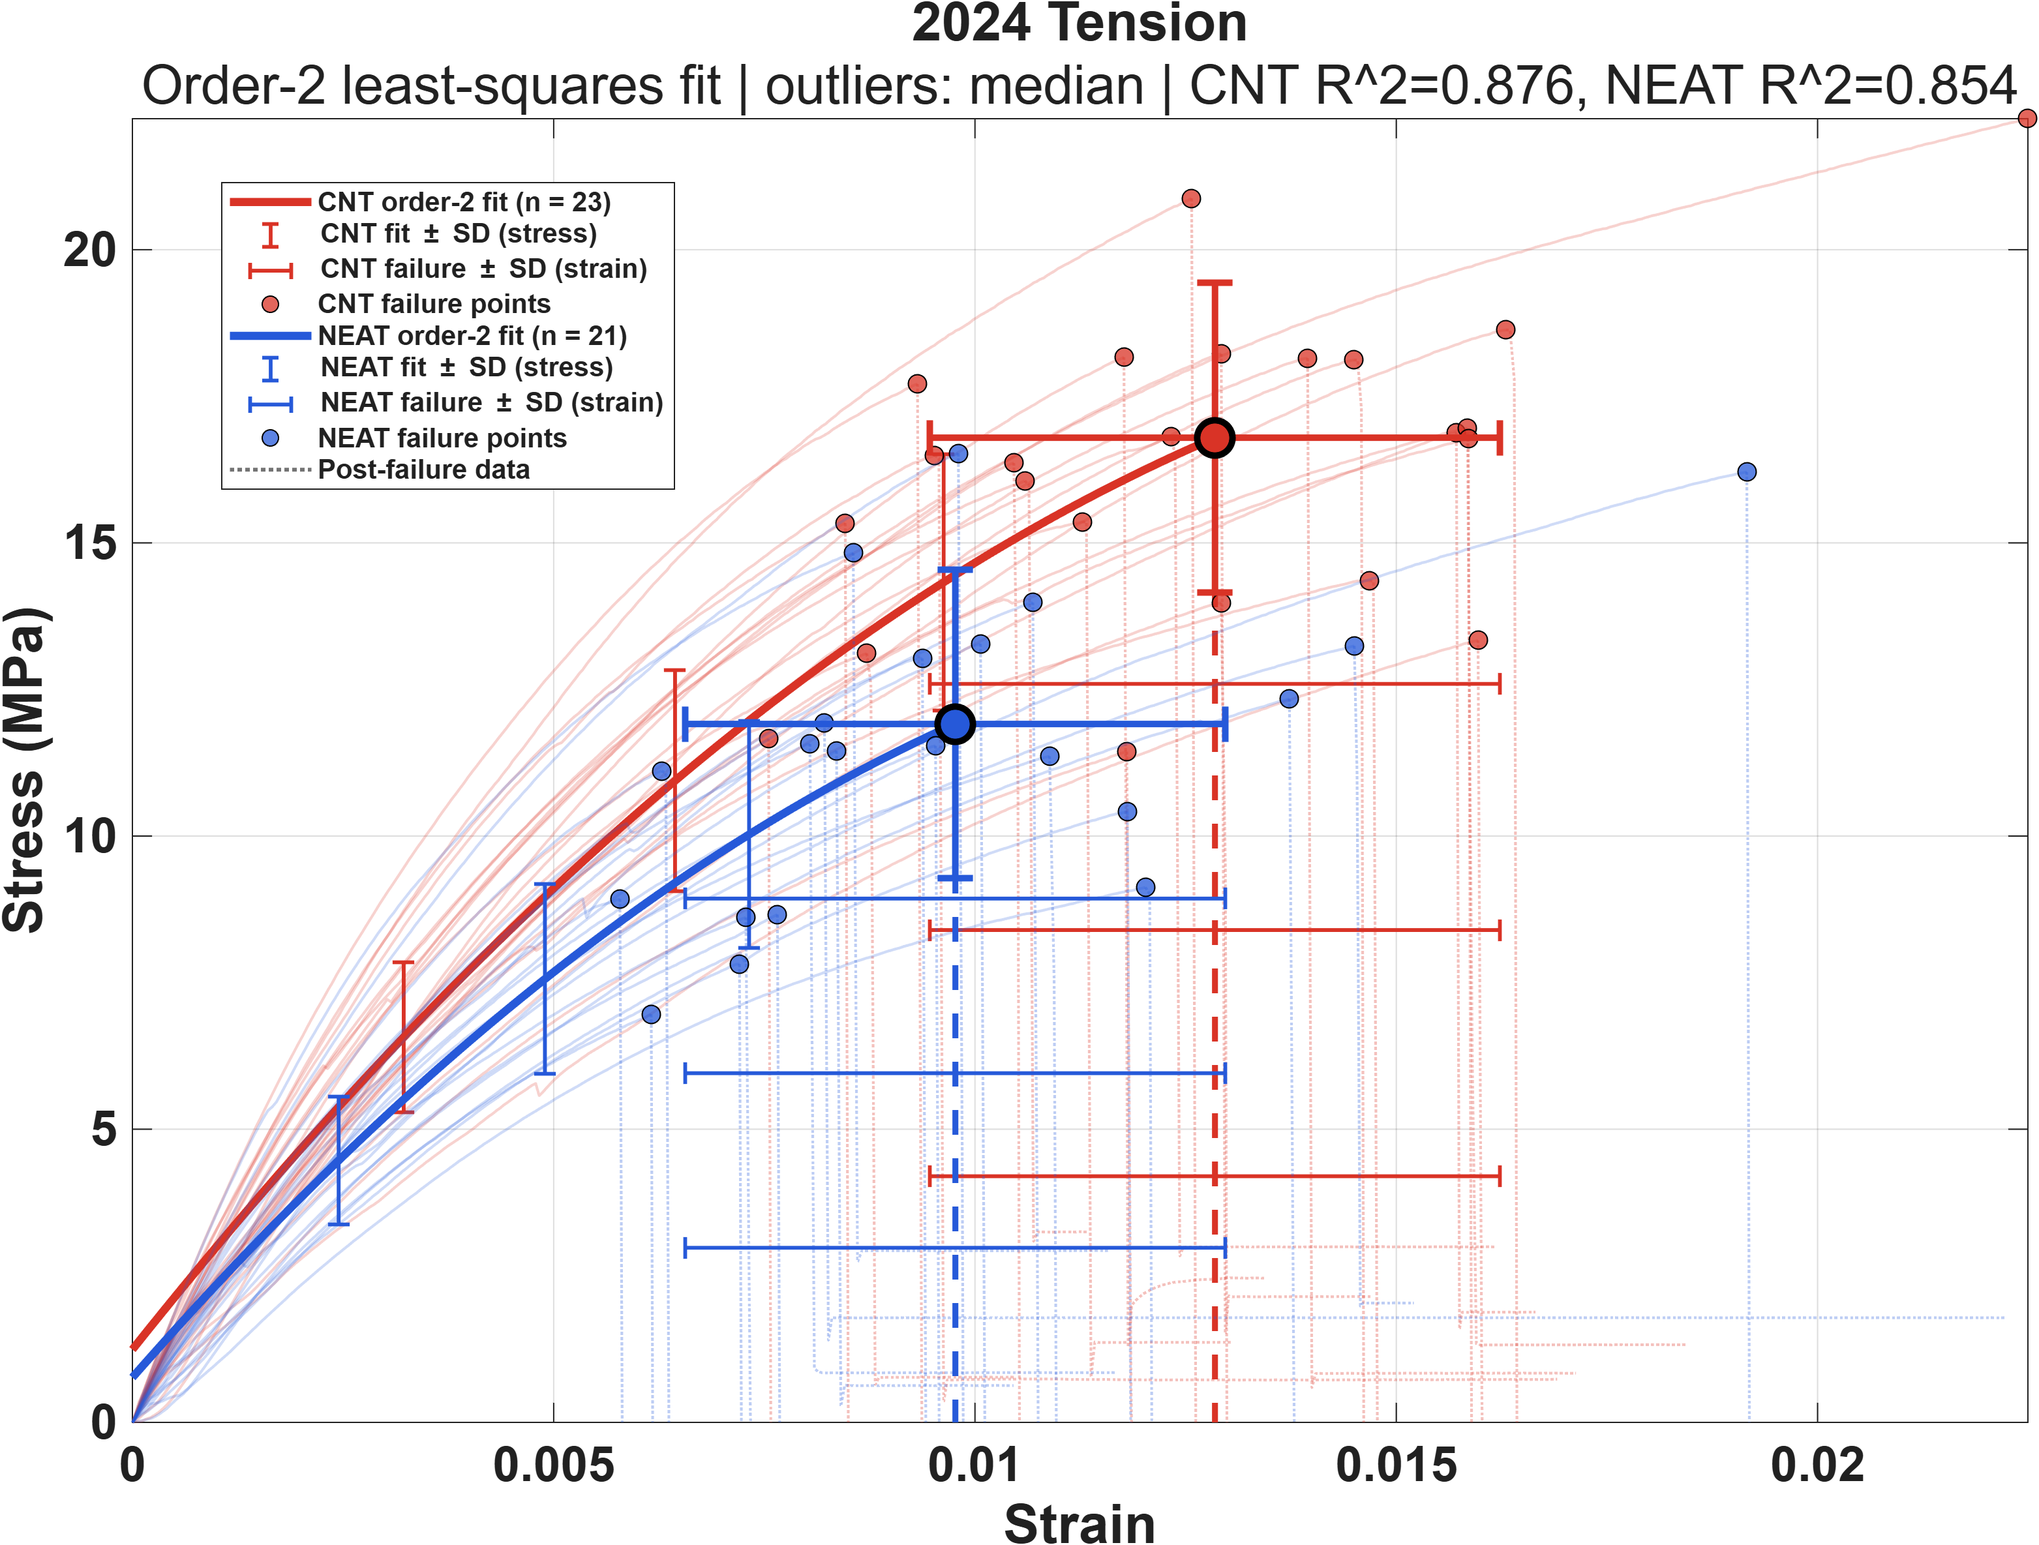
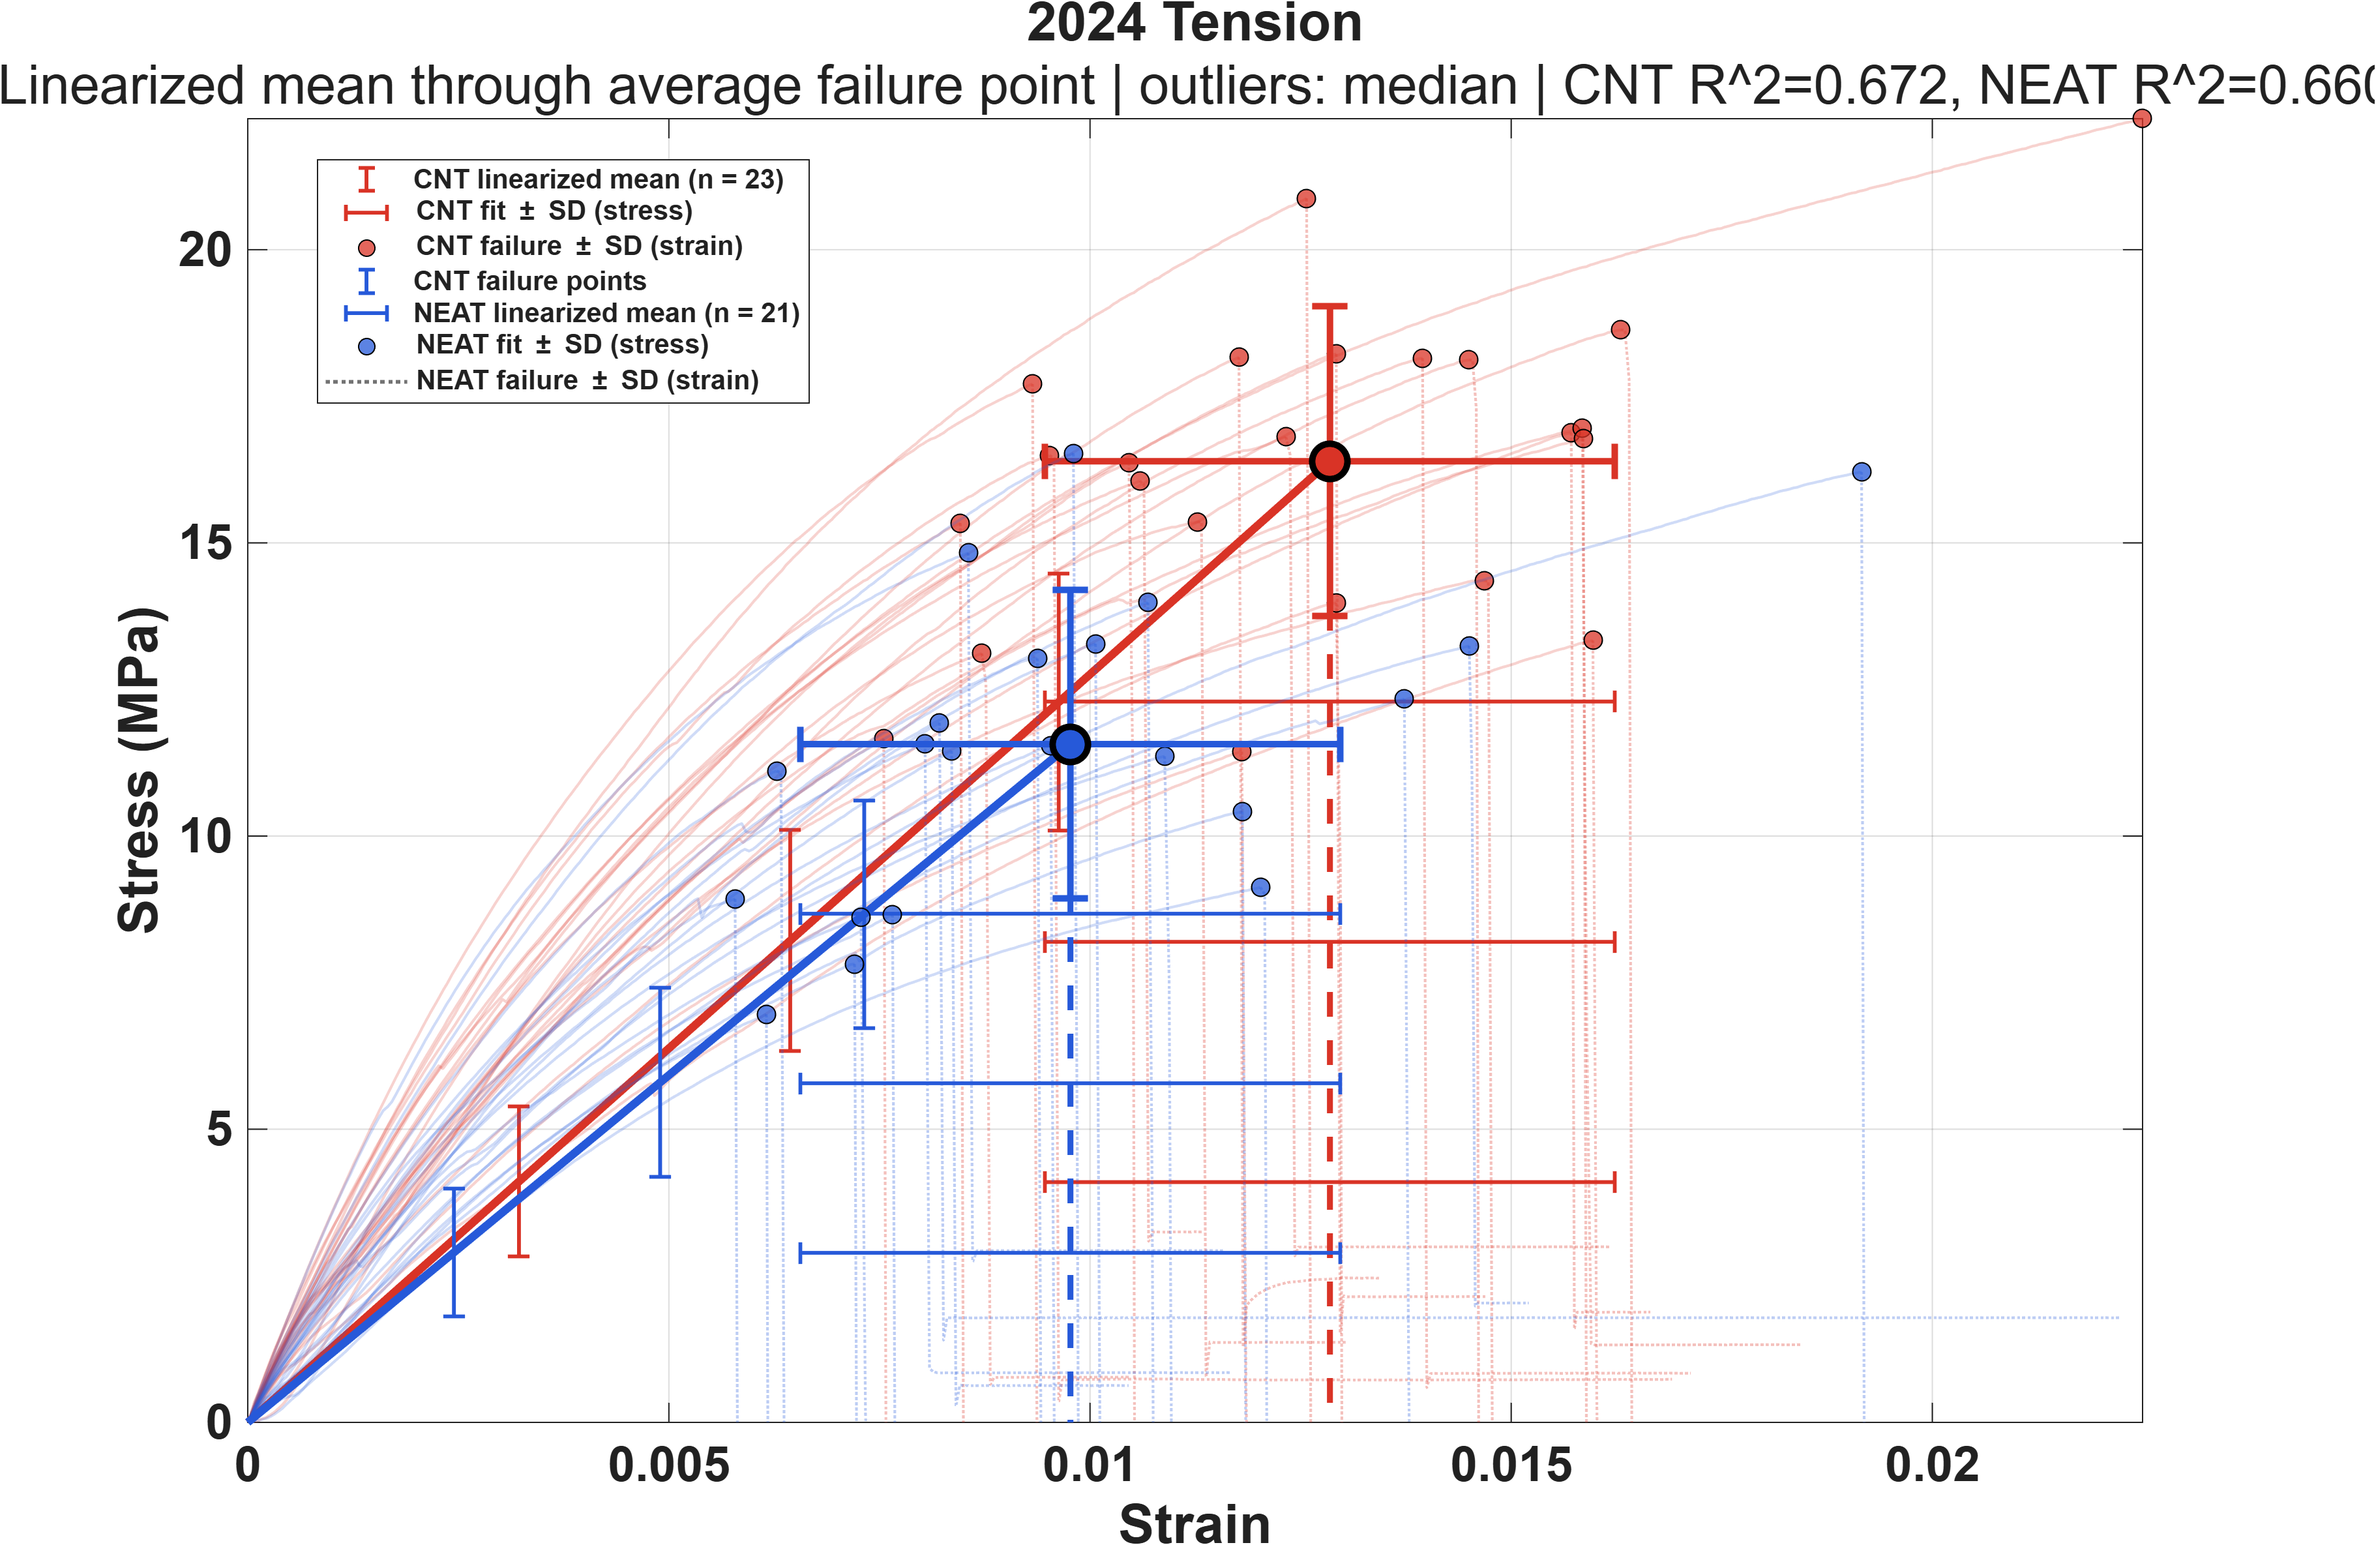
hello

diff --git a/data_process_and_plot2.m b/data_process_and_plot2.m
@@ -95,9 +95,8 @@ if ~isfolder(failurePlotFolder)
 end
 
 plotYearlyFracturePoints( ...
-    classifiedAll, organizedFolder, materials, 'Tension', ...
-    plotLimits, failurePlotFolder, ...
-    'PolynomialOrder', 2);
+    classifiedAll, organizedFolder, materials, 'Fracture', ...
+    plotLimits, failurePlotFolder);
 %{
 %% Plot each organized year
 years = unique(classifiedAll.Year);
